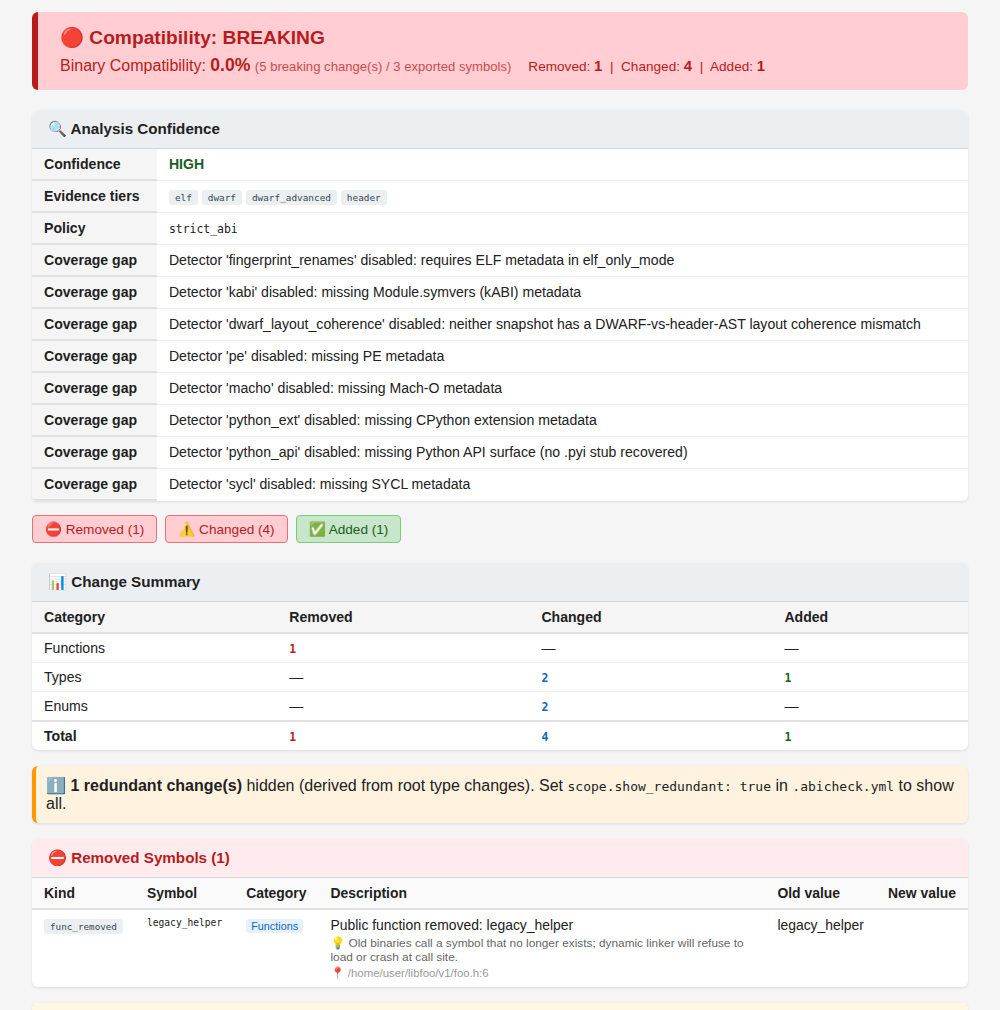
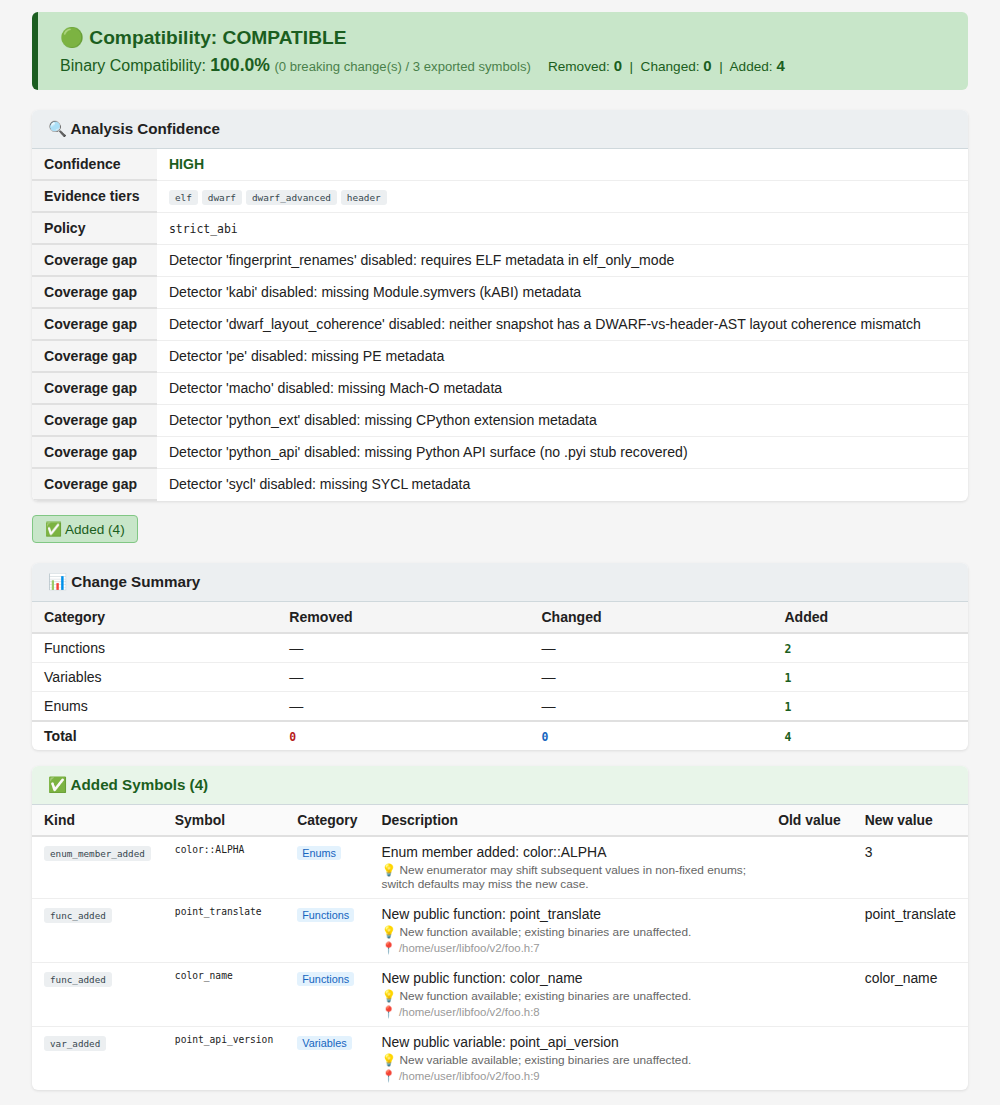
docs(readme): show an additions-only report in the sample
Rebuild the demo pair so version 2 only adds two functions, a variable,
and an enum member; regenerate the HTML screenshot, the evidence block,
and the collapsible Markdown from that real run (verdict COMPATIBLE,
MINOR bump, exit 0), and note what a breaking run would show instead.

Claude-Session: https://claude.ai/code/session_01ABeFjhvKG6BVoDXw6WbXS3

diff --git a/README.md b/README.md
@@ -41,9 +41,9 @@ abicheck compare libfoo.so.1 libfoo.so.2 --header old=include/v1/ --header new=i
 
 ## What a report looks like
 
-The run below compares two builds where a struct gained a field in the middle, two enum values swapped, and a function disappeared. The HTML report, rendered from real output:
+The run below compares two builds where version 2 only grows the ABI surface: two new functions, a new exported variable, and a new enum member. The HTML report, rendered from real output:
 
-<p align="center"><img src="docs/assets/readme/report-html.png" alt="abicheck HTML report: verdict BREAKING, analysis confidence table, change summary, removed and changed symbols" width="900"></p>
+<p align="center"><img src="docs/assets/readme/report-html.png" alt="abicheck HTML report: verdict COMPATIBLE, analysis confidence table, change summary, four added symbols" width="900"></p>
 
 The same content ships as Markdown (the default, and what the [GitHub Action](#github-action) posts as a PR comment), JSON, SARIF, and JUnit. Before the report, a CLI run prints which checks were on and which were off for the evidence you supplied:
 
@@ -74,44 +74,57 @@ Checks enabled for this scan (and why others are not):
 
 | | |
 |---|---|
-| **Verdict** | ❌ `BREAKING` |
-| Breaking changes | 5 |
+| **Old version** | `old` |
+| **New version** | `new` |
+| **Verdict** | ✅ `COMPATIBLE` |
+| Breaking changes | 0 |
 | Source-level breaks | 0 |
-| Compatible changes | 1 |
+| Deployment risk changes | 0 |
+| Compatible changes | 4 |
+
+## Analysis Confidence
+
+| Field | Value |
+|---|---|
+| Confidence | HIGH |
+| Evidence tier | `header_aware` |
+| Evidence tiers | `elf`, `dwarf`, `dwarf_advanced`, `header` |
+| Coverage gap | Detector 'fingerprint_renames' disabled: requires ELF metadata in elf_only_mode |
+| Coverage gap | Detector 'kabi' disabled: missing Module.symvers (kABI) metadata |
+| Coverage gap | Detector 'dwarf_layout_coherence' disabled: neither snapshot has a DWARF-vs-header-AST layout coherence mismatch |
+| Coverage gap | Detector 'pe' disabled: missing PE metadata |
+| Coverage gap | Detector 'macho' disabled: missing Mach-O metadata |
+| Coverage gap | Detector 'python_ext' disabled: missing CPython extension metadata |
+| Coverage gap | Detector 'python_api' disabled: missing Python API surface (no .pyi stub recovered) |
+| Coverage gap | Detector 'sycl' disabled: missing SYCL metadata |
+
+> **Policy**: `strict_abi`
 
 ## Release Recommendation
 
 | Field | Value |
 |---|---|
-| Version bump | 🔴 **MAJOR** |
-| SONAME action | `bump_required` |
+| Version bump | 🟢 **MINOR** |
+| SONAME action | `no_bump_needed` |
+| Recommendation state | `actionable` |
 
-## ❌ Breaking Changes
-
-- **type_size_changed**: Size changed: point (64 → 96 bits) (`64` → `96`) — `v1/foo.h:2`
-  > Old code allocates or copies the type with the old size; heap/stack corruption, out-of-bounds access.
-  > 1 derived change(s) collapsed
-  > Affected symbols: `point_area`, `point_scale`
-- **type_field_offset_changed**: Field offset changed: point::y (32 → 64 bits) (`32` → `64`) — `v1/foo.h:2`
-  > Old code reads/writes fields at stale offsets; silent data corruption.
-- **enum_member_value_changed**: Enum member value changed: color::GREEN (1 → 2) (`1` → `2`)
-  > Old binaries use stale numeric values; logic comparisons and switch statements silently break.
-- **enum_member_value_changed**: Enum member value changed: color::BLUE (2 → 1) (`2` → `1`)
-  > Old binaries use stale numeric values; logic comparisons and switch statements silently break.
-- **func_removed**: Public function removed: legacy_helper (`legacy_helper`) — `v1/foo.h:6`
-  > Old binaries call a symbol that no longer exists; dynamic linker will refuse to load or crash at call site.
+Backward-compatible additions to the public API — release a new MINOR version.
 
 ## ✅ Additions
 
-- **type_field_added_compatible**: Field added: point::z — `v1/foo.h:2`
-  > Field appended without changing existing offsets; old code works but won't initialize the new field.
-
-> ℹ 1 redundant change(s) hidden (derived from root type changes).
+- **enum_member_added**: Enum member added: color::ALPHA (`3`)
+  > New enumerator may shift subsequent values in non-fixed enums; switch defaults may miss the new case.
+- **func_added**: New public function: point_translate (`point_translate`) — `v2/foo.h:7`
+  > New function available; existing binaries are unaffected.
+- **func_added**: New public function: color_name (`color_name`) — `v2/foo.h:8`
+  > New function available; existing binaries are unaffected.
+- **var_added**: New public variable: point_api_version — `v2/foo.h:9`
+  > New variable available; existing binaries are unaffected.
 ```
 
 </details>
 
-Exit code `4`. Every finding names the change kind and the consumer-visible consequence; where the evidence allows, it also carries the header location and the exported symbols it reaches. Findings derived from a root cause (here, the `point_scale` signature change that follows from the struct change) are folded into it and counted as hidden, so the report stays readable.
+Exit code `0`, with a `MINOR` version-bump recommendation and no SONAME change. Had a struct field moved or a function vanished, the verdict would be `BREAKING`, the recommendation `MAJOR` with an SONAME bump, and the exit code `4`. Every finding names the change kind and the consumer-visible consequence; where the evidence allows, it also carries the header location and the exported symbols it reaches.
 
 ## How it works: five layers of evidence
 
